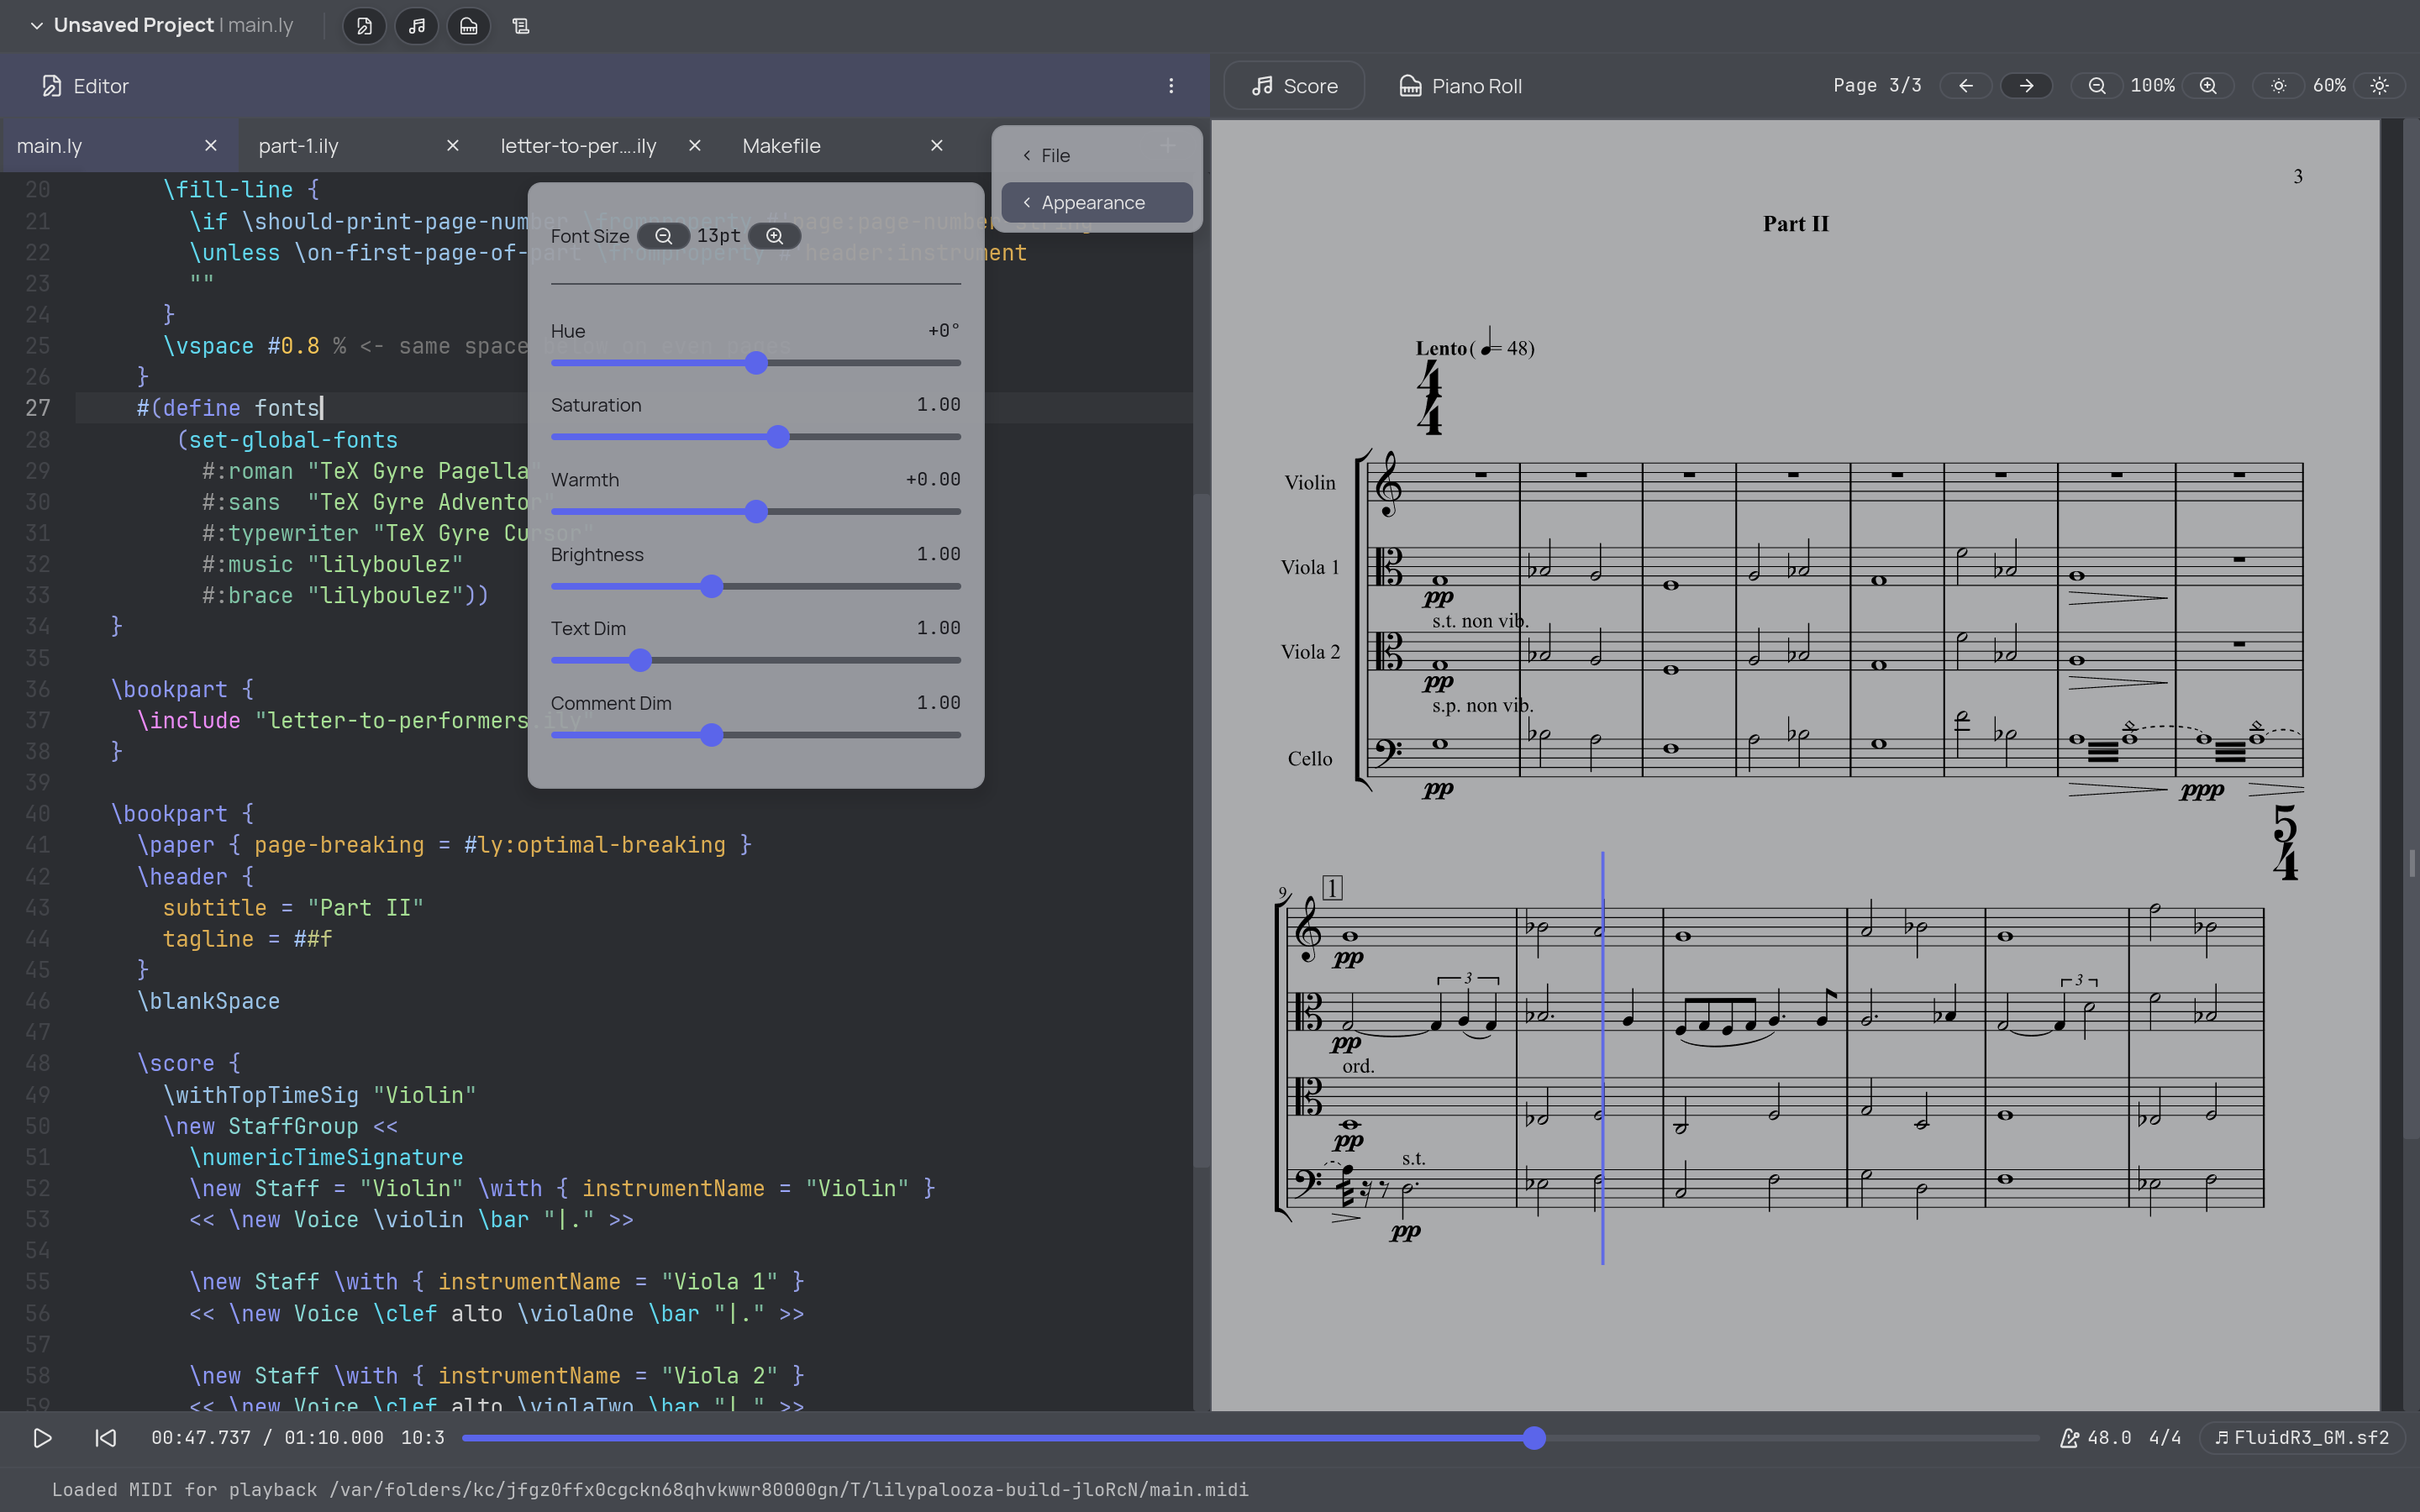
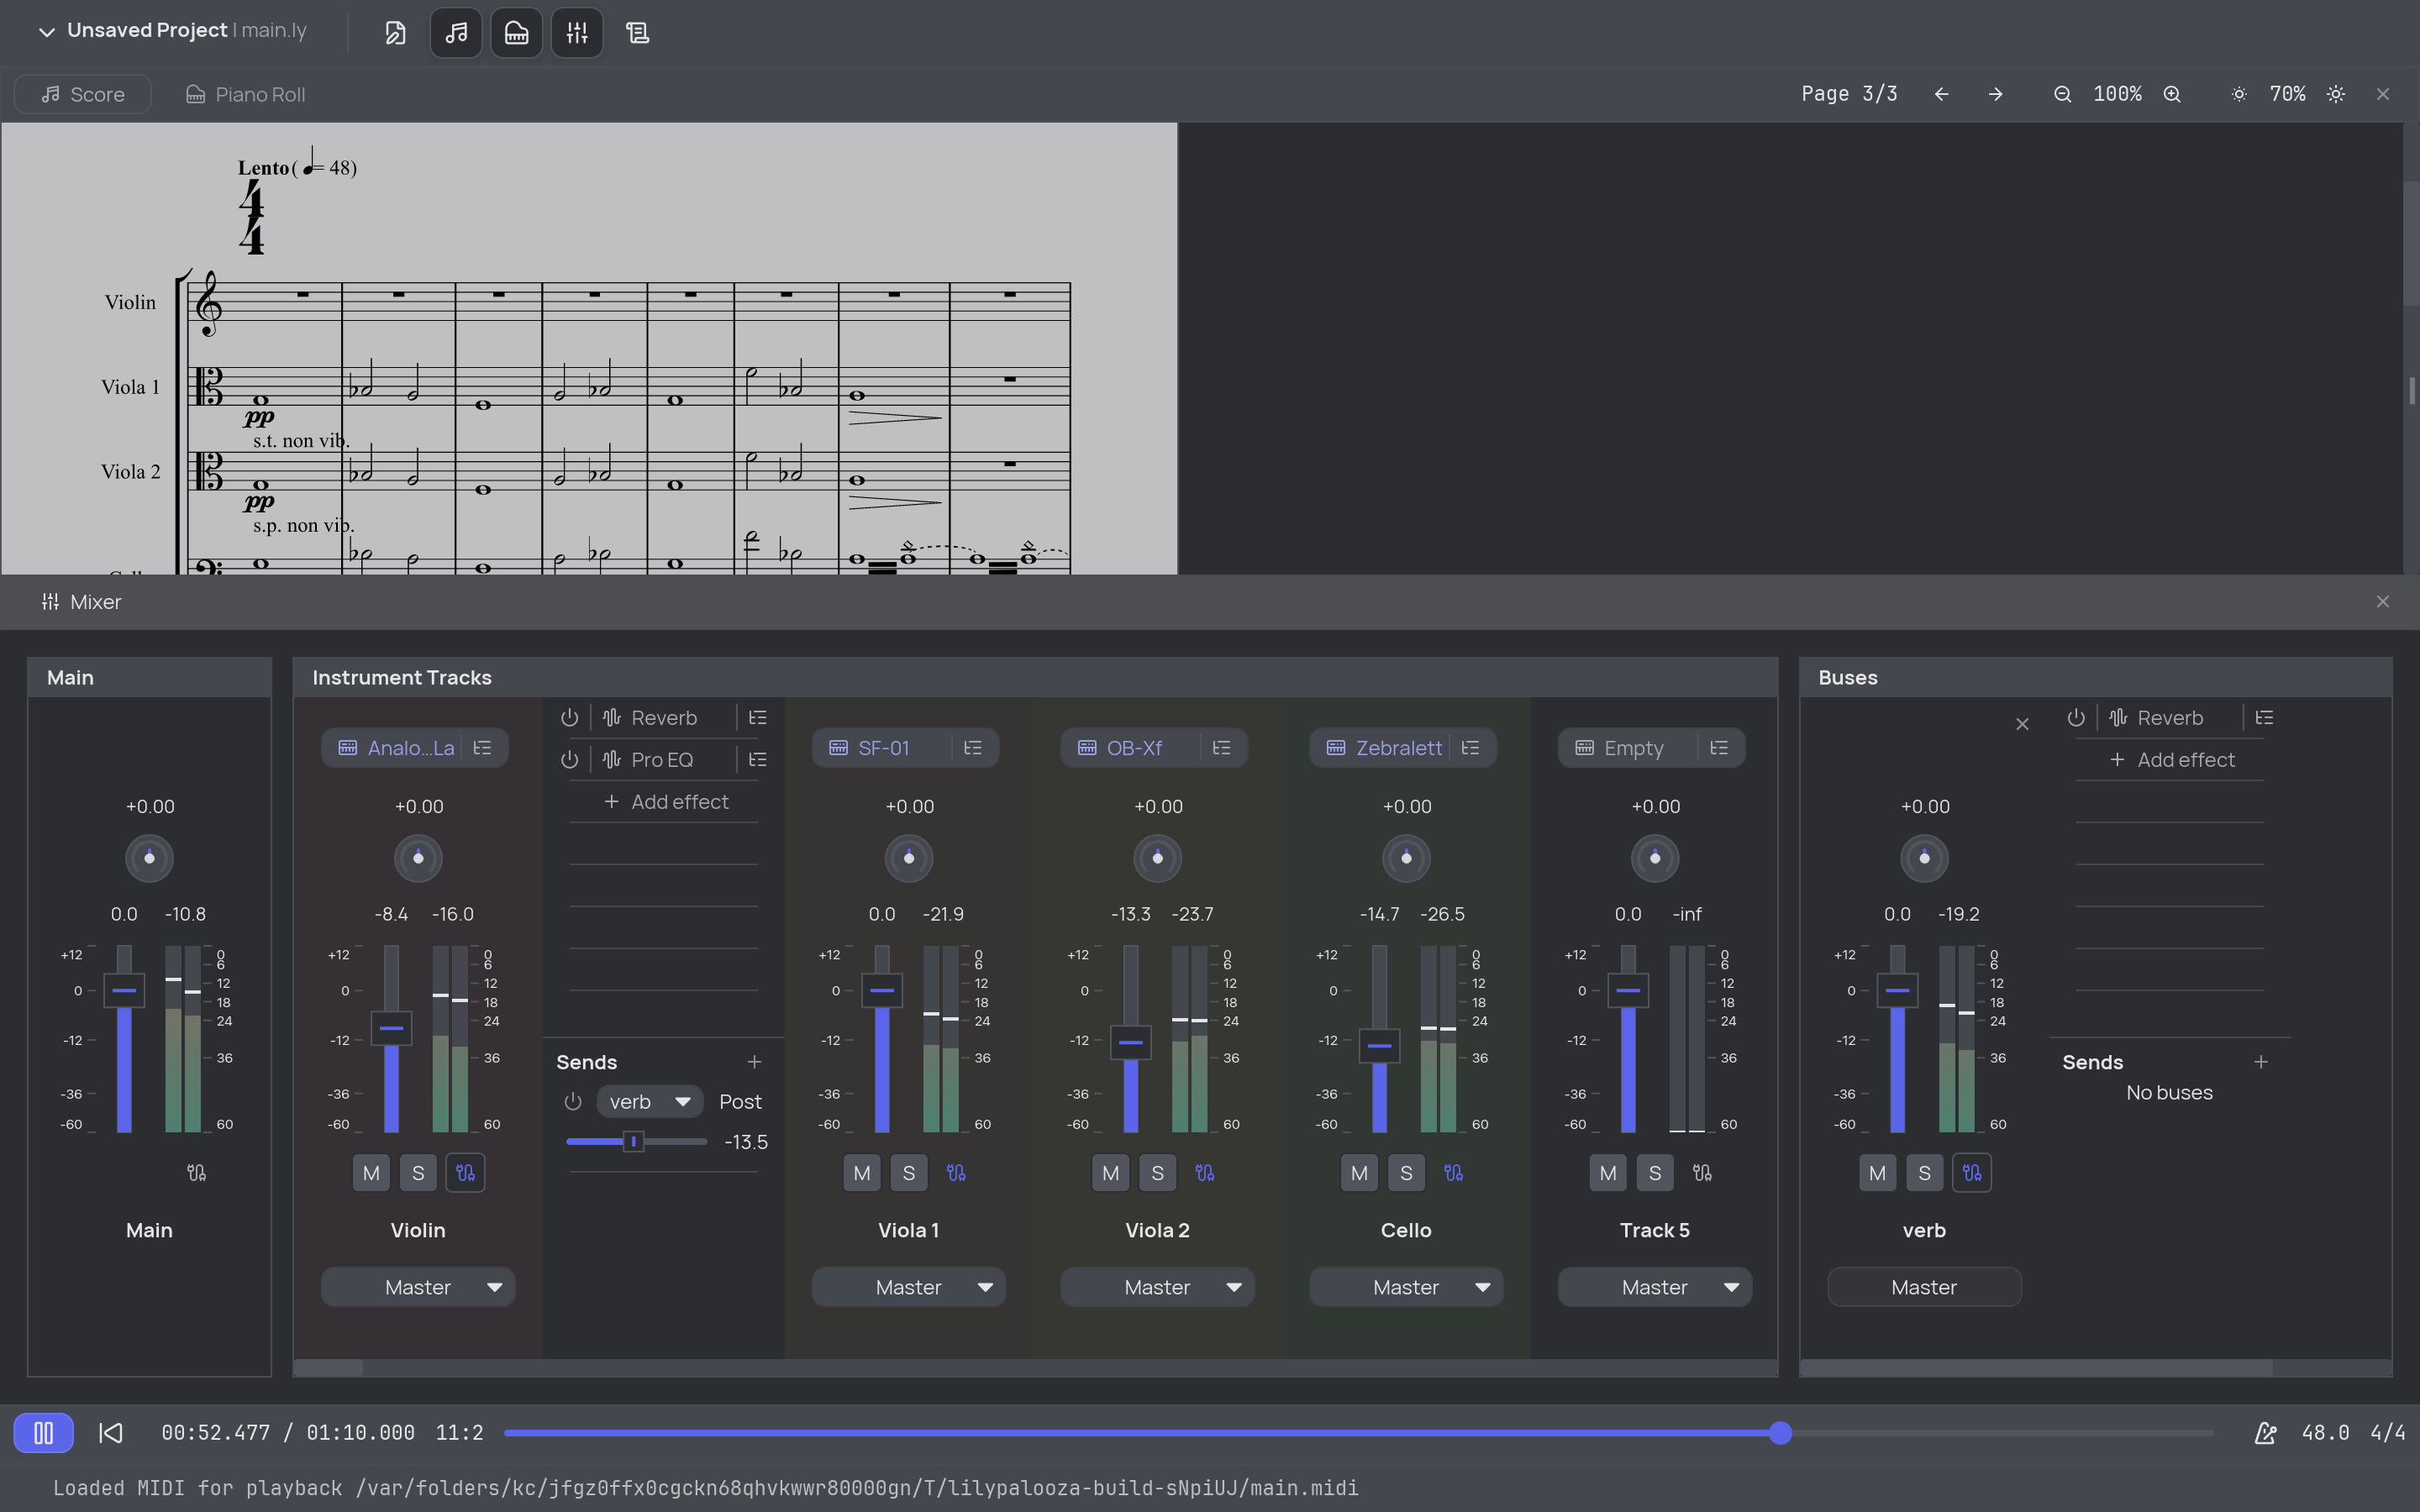
Update readme

diff --git a/README.md b/README.md
@@ -1,95 +1,138 @@
 # Lilypalooza
 
-**Lilypalooza** is a desktop LilyPond IDE.
-
-It is built for editing, previewing, and auditioning LilyPond projects in one
-place.
+**Lilypalooza** is a desktop LilyPond IDE with DAW-style playback, editing,
+score preview, plugin hosting, and project persistence.
 
 ![Screenshot 1](assets/screenshots/screenshot_1.png)
 ![Screenshot 2](assets/screenshots/screenshot_2.png)
+![Screenshot 3](assets/screenshots/screenshot_3.png)
+![Screenshot 4](assets/screenshots/screenshot_4.png)
 
-## Major Features
+## Features
 
-- multi-tab editor for LilyPond projects
-- tree-sitter-based syntax highlighting
-- rendered score preview with point-and-click back to source
-- MIDI playback with transport, mixer, and SoundFont-based instruments
-- piano roll for MIDI inspection
-- dockable multi-pane workspace
-- project persistence and workspace restore
-- integrated compile status and logs
+- multi-tab LilyPond editor with tree-sitter highlighting
+- score preview with point-and-click navigation back to source
+- MIDI playback with transport, piano roll and feature-full DAW-grade mixer
+- DAW-style processor slots for built-in, CLAP, and VST3 instruments/effects
+- built-in SoundFont sampler
+- plugin editor windows with preset controls and native embedded plugin views
+- non-blocking CLAP/VST3 scanning with isolated validation and persistent cache
+- mixer buses, output routing, sends, pre/post fader sends, feedback prevention,
+  effect bypass, effect reordering, and plugin delay compensation
+- dockable multi-pane workspace with editor, score, piano roll, mixer, logs, and
+  project state persistence
 
 ## Run
 
-```bash
-cargo run --release
-```
-
-## Workflow
-
-Typical workflow:
-
-1. Open or create a LilyPond file.
-2. Edit it in the built-in editor.
-3. Save to trigger recompilation.
-4. Inspect the rendered score and piano roll.
-5. Click the score to jump back to the exact source location.
-
-If the current file belongs to a saved project, Lilypalooza restores project
-state from `.lilypalooza/project.ron`. Otherwise it uses global state.
-
-## Settings
-
-App settings are stored in the platform config directory under:
-
-- `lilypalooza/settings.toml`
-
-That file contains:
-
-- editor view settings
-- editor theme tuning
-- shortcut overrides
-- recent-file limits
-
-Some editor behavior is configurable both from the UI and from the settings
-file.
-
-## CLI Arguments
-
-CLI arguments mostly exist for development and quick startup.
-
-Preload a SoundFont:
+Use `make run` for development. It builds the plugin validator helper first and
+then starts the app.
 
 ```bash
-cargo run -- --soundfont assets/soundfonts/FluidR3_GM.sf2
+make run
 ```
 
-Or:
+Pass app arguments after `--`:
+
+```bash
+make run -- --soundfont assets/soundfonts/FluidR3_GM.sf2 --score path/to/score.ly
+```
+
+Useful direct environment overrides:
 
 ```bash
 LILYPALOOZA_SOUNDFONT=assets/soundfonts/FluidR3_GM.sf2 cargo run
-```
-
-Preload a score file:
-
-```bash
-cargo run -- --score path/to/score.ly
-```
-
-Or:
-
-```bash
 LILYPALOOZA_SCORE=path/to/score.ly cargo run
 ```
 
-## Tests
+Trace plugin/editor hosting:
 
 ```bash
-cargo test
+RUST_LOG=lilypalooza_vst3=trace,editor_host=trace,lilypalooza::editor_windows=trace make run
 ```
 
-There are also manual startup error-path checks under:
+## Settings
+
+Settings are stored in the platform config directory:
 
 ```text
-scripts/lilypond-error-tests
+lilypalooza/settings.toml
 ```
+
+The file is generated with documented defaults. Important sections include:
+
+- `clap_search_paths` and `vst3_search_paths`
+- editor view and theme settings
+- shortcut overrides
+- playback SoundFonts and audio output device
+
+Default plugin search paths are created for the current platform. On macOS this
+includes:
+
+```text
+/Library/Audio/Plug-Ins/CLAP
+~/Library/Audio/Plug-Ins/CLAP
+/Library/Audio/Plug-Ins/VST3
+~/Library/Audio/Plug-Ins/VST3
+```
+
+Plugin scanning runs in the background. The UI and log/status line report scan
+progress while the app is not blocked and the picker may still be filling.
+
+## Projects
+
+When a score belongs to a saved project, project state is stored under:
+
+```text
+.lilypalooza/project.ron
+```
+
+Project/global state preserves editor tabs, mixer state, plugin choices,
+routing, and user processor presets.
+
+## Workspace Crates
+
+- `lilypalooza-audio`: engine, mixer, routing, processor interfaces, PDC
+- `lilypalooza-builtins`: built-in processors such as SF-01 and Gain
+- `lilypalooza-clap`: CLAP discovery, runtime, state, audio, and editor adapter
+- `lilypalooza-vst3`: VST3 discovery, runtime, audio, and editor adapter
+- `lilypalooza-plugin-scan`: reusable background scanner and cache
+- `lilypalooza-plugin-validator`: subprocess validator for plugin candidates
+- `editor-host`: cross-format embedded plugin editor window/frame host
+- `lilypalooza-egui-baseview`: egui/baseview frame rendering support
+- `crates/vendor/*`: vendored UI/editor/parser dependencies
+
+## Development Commands
+
+```bash
+make fmt
+make clippy
+make test-all
+```
+
+Build only the validator helper:
+
+```bash
+make validator
+```
+
+## Built-in Debugging
+
+Open the SF-01 editor directly:
+
+```bash
+cargo run -p lilypalooza-builtins --example open_soundfont_synth
+```
+
+Other useful built-in examples:
+
+```bash
+cargo run -p lilypalooza-builtins --example play_soundfont_midi
+cargo run -p lilypalooza-builtins --example profile_engine
+```
+
+## Status
+
+The app is under active development. macOS is the primary tested platform right
+now. CLAP and VST3 hosting are implemented; Windows and X11 paths are kept in
+the architecture but mostly placeholders yet. Wayland plugin editor hosting is
+not a current target.